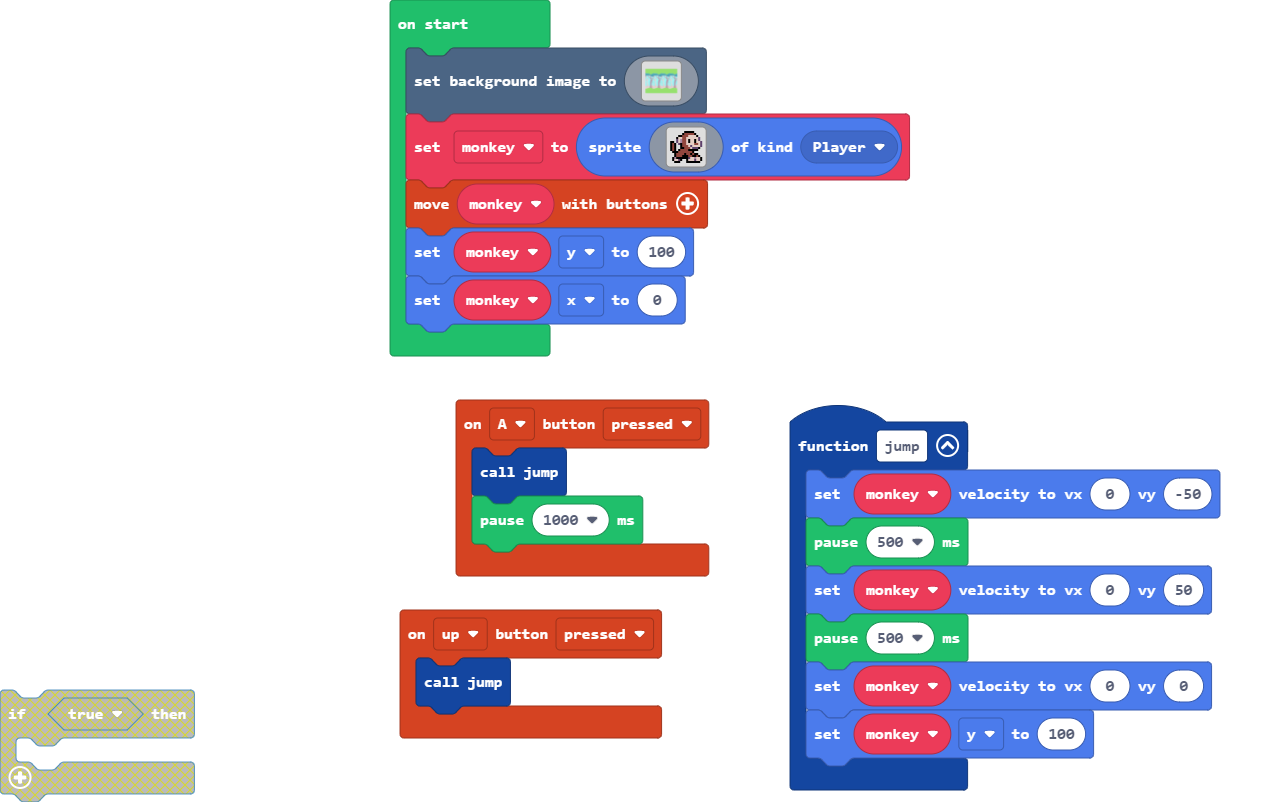
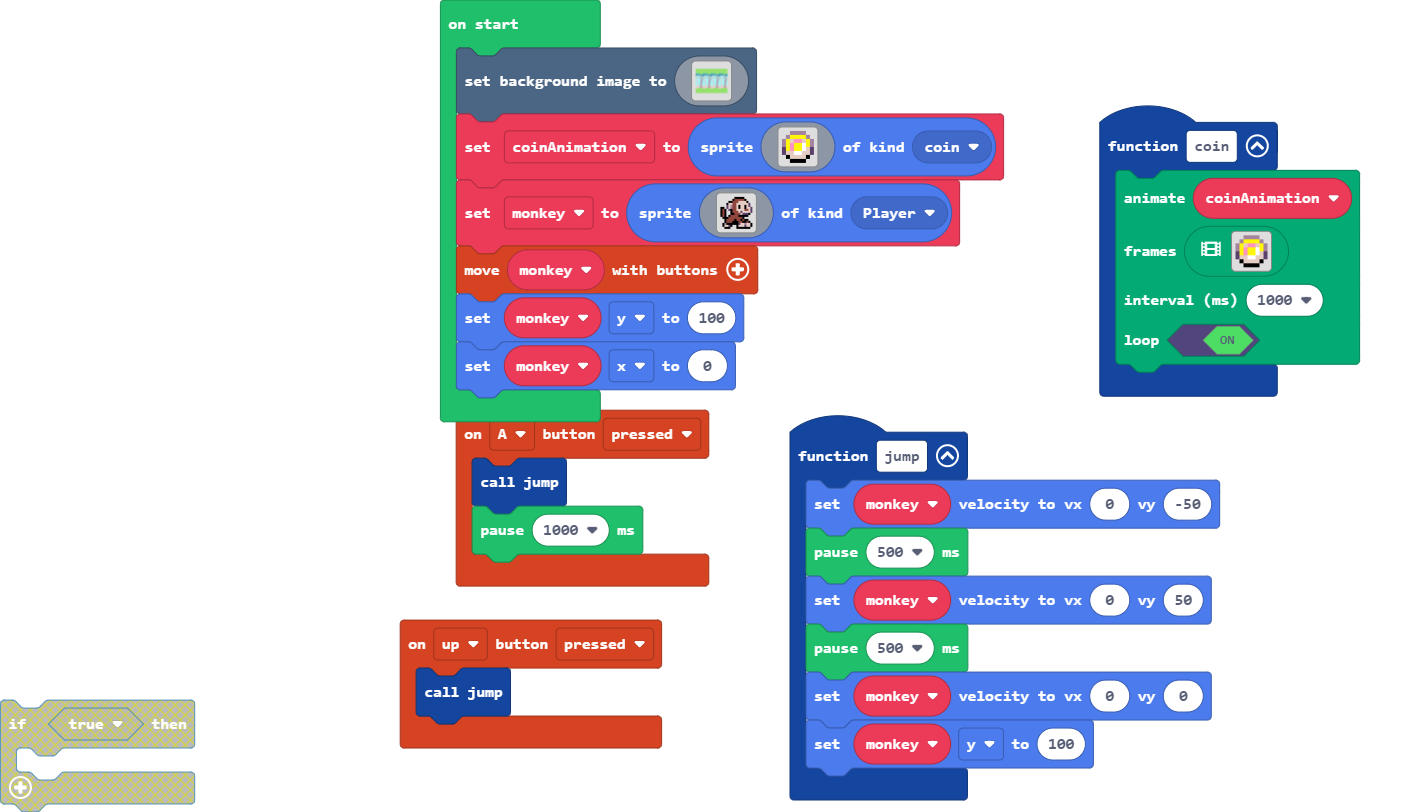
Update main.blocks, main.ts

diff --git a/main.ts b/main.ts
@@ -1,3 +1,6 @@
+namespace SpriteKind {
+    export const coin = SpriteKind.create()
+}
 controller.up.onEvent(ControllerButtonEvent.Pressed, function () {
     jump()
 })
@@ -5,6 +8,68 @@ controller.A.onEvent(ControllerButtonEvent.Pressed, function () {
     jump()
     pause(1000)
 })
+function coin () {
+    animation.runImageAnimation(
+    coinAnimation,
+    [img`
+        . . b b b b . . 
+        . b 5 5 5 5 b . 
+        b 5 d 3 3 d 5 b 
+        b 5 3 5 5 1 5 b 
+        c 5 3 5 5 1 d c 
+        c d d 1 1 d d c 
+        . f d d d d f . 
+        . . f f f f . . 
+        `,img`
+        . . b b b . . . 
+        . b 5 5 5 b . . 
+        b 5 d 3 d 5 b . 
+        b 5 3 5 1 5 b . 
+        c 5 3 5 1 d c . 
+        c 5 d 1 d d c . 
+        . f d d d f . . 
+        . . f f f . . . 
+        `,img`
+        . . . b b . . . 
+        . . b 5 5 b . . 
+        . b 5 d 1 5 b . 
+        . b 5 3 1 5 b . 
+        . c 5 3 1 d c . 
+        . c 5 1 d d c . 
+        . . f d d f . . 
+        . . . f f . . . 
+        `,img`
+        . . . b b . . . 
+        . . b 5 5 b . . 
+        . . b 1 1 b . . 
+        . . b 5 5 b . . 
+        . . b d d b . . 
+        . . c d d c . . 
+        . . c 3 3 c . . 
+        . . . f f . . . 
+        `,img`
+        . . . b b . . . 
+        . . b 5 5 b . . 
+        . b 5 1 d 5 b . 
+        . b 5 1 3 5 b . 
+        . c d 1 3 5 c . 
+        . c d d 1 5 c . 
+        . . f d d f . . 
+        . . . f f . . . 
+        `,img`
+        . . . b b b . . 
+        . . b 5 5 5 b . 
+        . b 5 d 3 d 5 b 
+        . b 5 1 5 3 5 b 
+        . c d 1 5 3 5 c 
+        . c d d 1 d 5 c 
+        . . f d d d f . 
+        . . . f f f . . 
+        `],
+    1000,
+    true
+    )
+}
 function jump () {
     monkey.setVelocity(0, -50)
     pause(500)
@@ -14,6 +79,7 @@ function jump () {
     monkey.y = 100
 }
 let monkey: Sprite = null
+let coinAnimation: Sprite = null
 scene.setBackgroundImage(img`
     7777777777777777777777777777777777777777777777777777777777777777777777777777777777777777777777777777777777777777777777777777777777777777777777777777777777777777
     7777777777777777777777777777777777777777777777777777777777777777777777777777777777777777777777777777777777777777777777777777777777777777777777777777777777777777
@@ -136,6 +202,16 @@ scene.setBackgroundImage(img`
     7777777777777777777777777777777777777777777777777777777777777777777777777777777777777777777777777777777777777777777777777777777777777777777777777777777777777777
     7777777777777777777777777777777777777777777777777777777777777777777777777777777777777777777777777777777777777777777777777777777777777777777777777777777777777777
     `)
+coinAnimation = sprites.create(img`
+    . . b b b b . . 
+    . b 5 5 5 5 b . 
+    b 5 d 3 3 d 5 b 
+    b 5 3 5 5 1 5 b 
+    c 5 3 5 5 1 d c 
+    c d d 1 1 d d c 
+    . f d d d d f . 
+    . . f f f f . . 
+    `, SpriteKind.coin)
 monkey = sprites.create(img`
     . . . . . . . f f f f f . . . . 
     . . . . . . f e e e e e f . . . 
